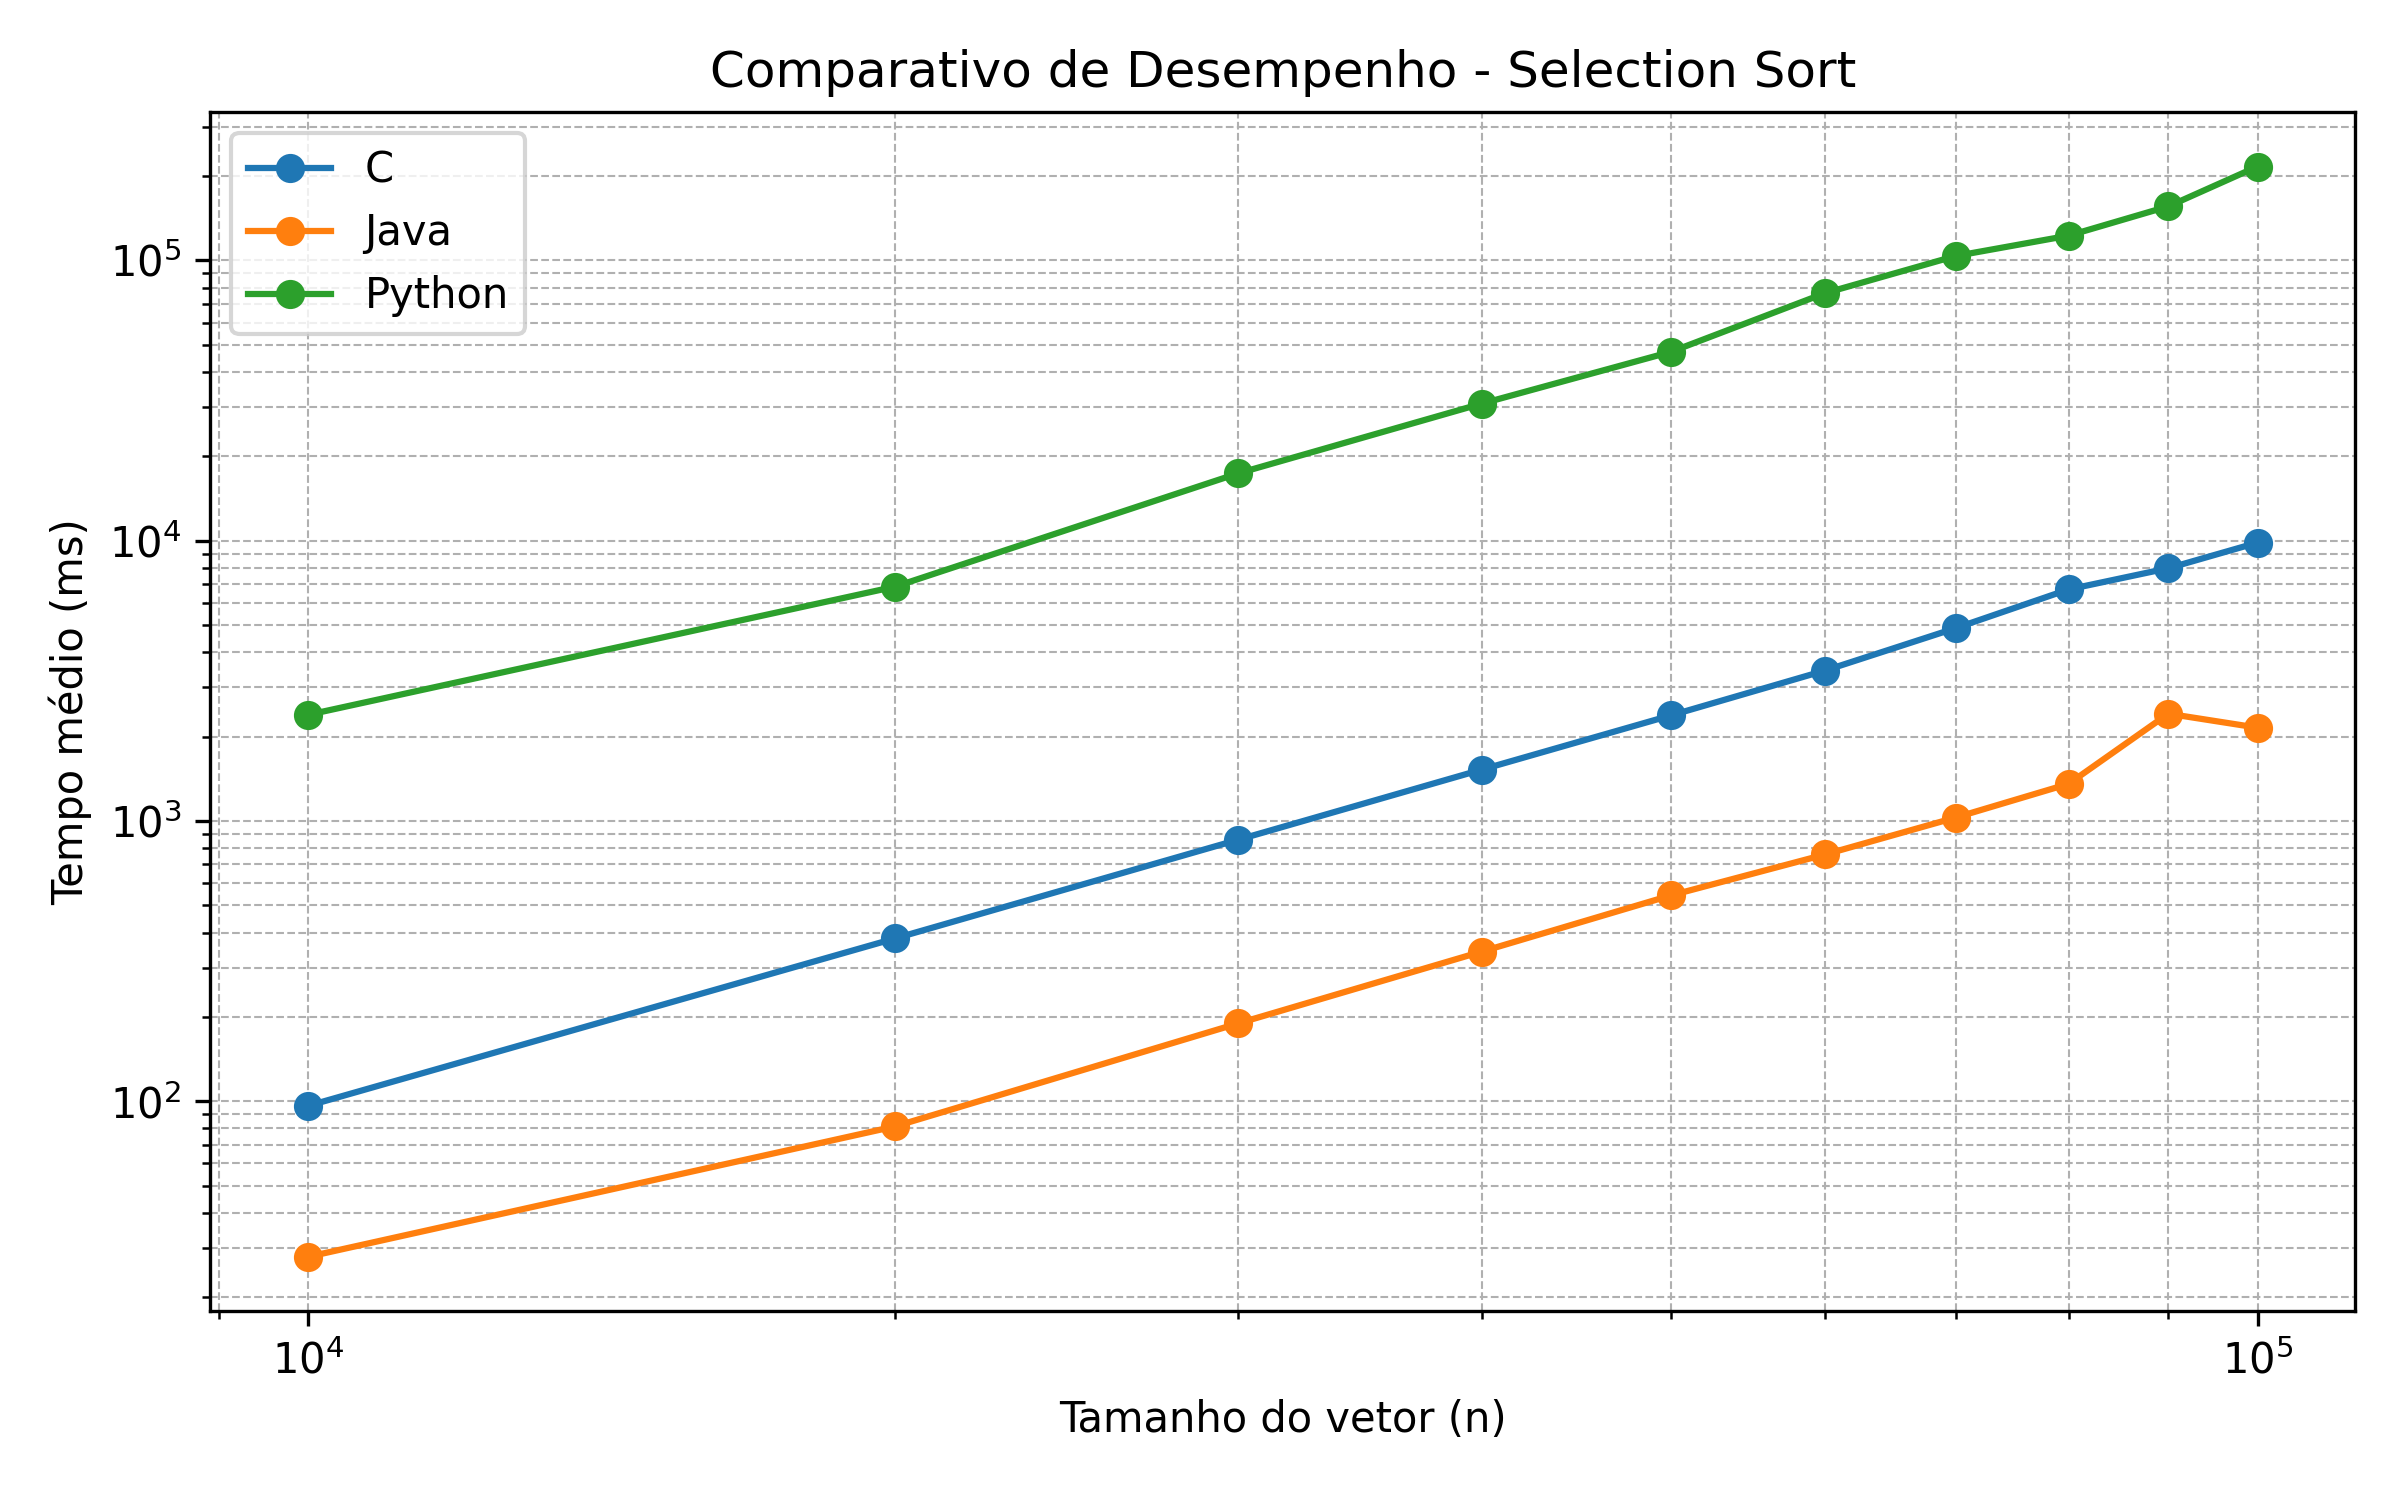
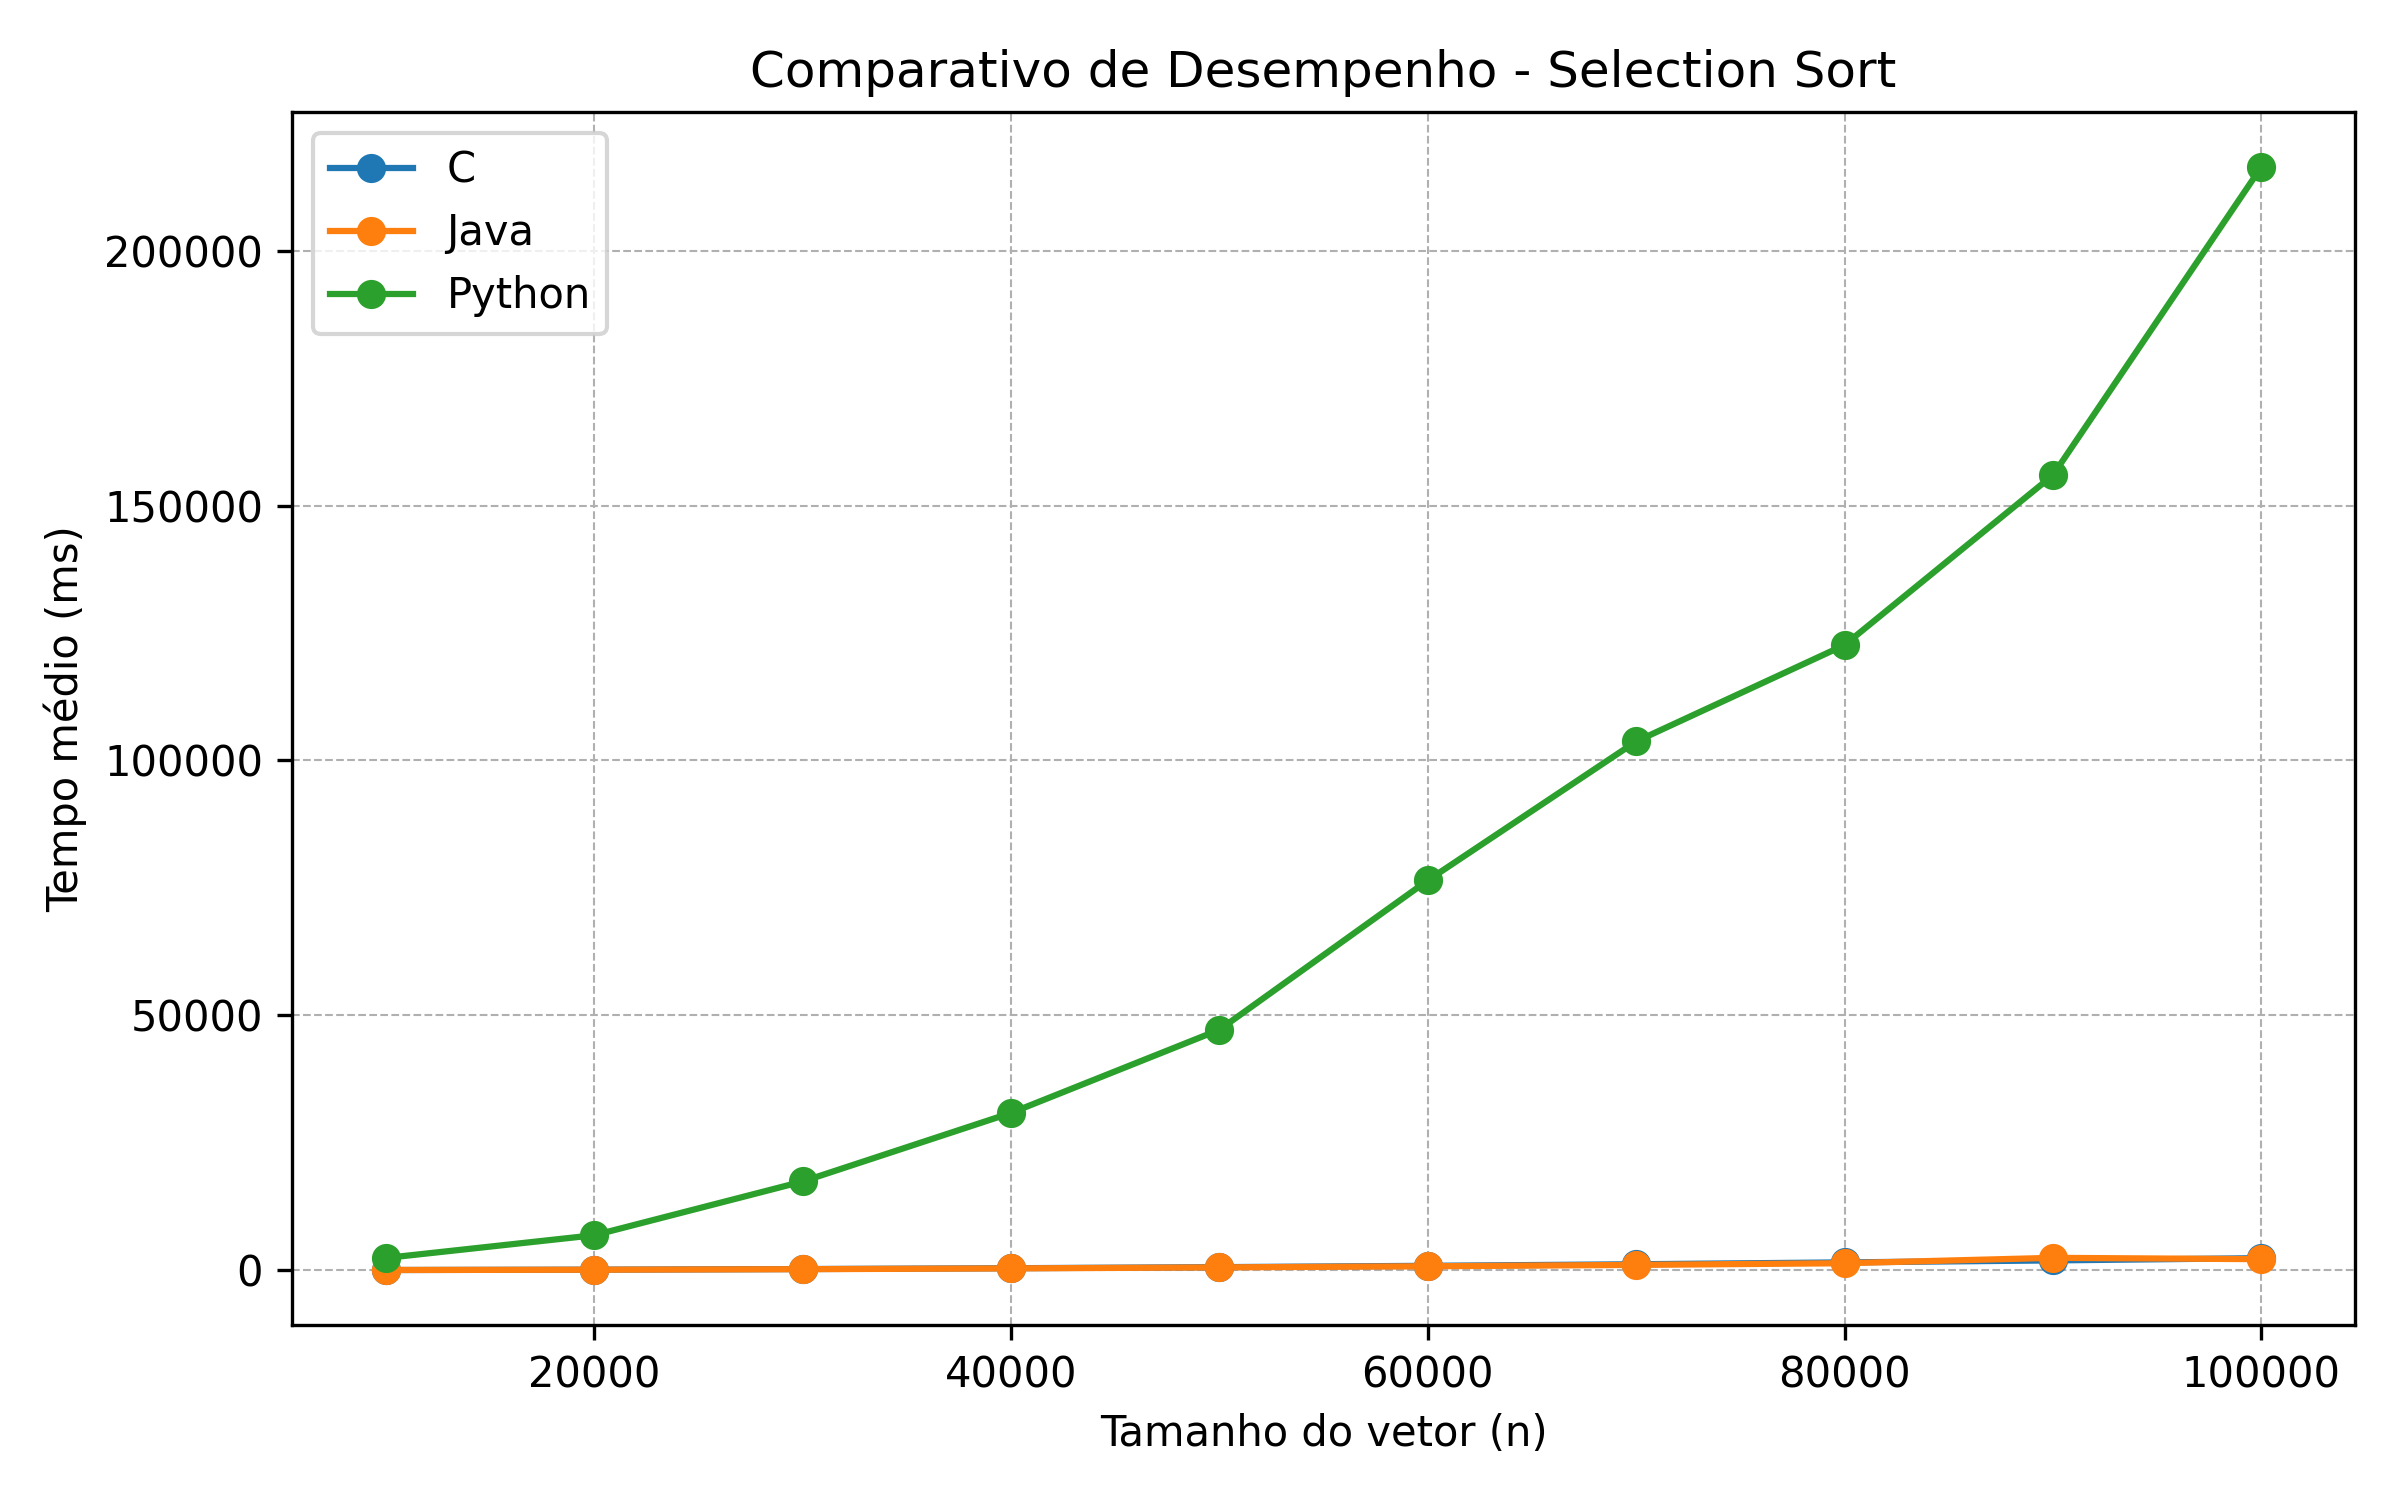
Refactor code and update performance data; modify output messages for clarity

diff --git a/codigo/python/gerar_graficos.py b/codigo/python/gerar_graficos.py
@@ -23,8 +23,8 @@ def gerar_grafico(df, titulo, arquivo_saida):
     """Gera gráfico log-log de desempenho para uma linguagem."""
     plt.figure(figsize=(8, 5))
     plt.plot(df["n"], df["tempo_ms"], marker='o', linestyle='-', color='steelblue')
-    plt.xscale("log")
-    plt.yscale("log")
+    # plt.xscale("log")
+    # plt.yscale("log")
     plt.title(titulo)
     plt.xlabel("Tamanho do vetor (n)")
     plt.ylabel("Tempo médio (ms)")
@@ -39,8 +39,8 @@ def gerar_comparativo(dados):
     plt.figure(figsize=(8, 5))
     for nome, df in dados.items():
         plt.plot(df["n"], df["tempo_ms"], marker='o', linestyle='-', label=nome)
-    plt.xscale("log")
-    plt.yscale("log")
+    # plt.xscale("quadratic")
+    # plt.yscale("quadratic")
     plt.title("Comparativo de Desempenho - Selection Sort")
     plt.xlabel("Tamanho do vetor (n)")
     plt.ylabel("Tempo médio (ms)")

diff --git a/codigo/python/gerador.py b/codigo/python/gerador.py
@@ -4,14 +4,6 @@ import csv
 from pathlib import Path
 
 def gerar_dados():
-    """
-    Gera arquivos CSV com vetores de inteiros para teste do Selection Sort
-    
-    - Tamanhos: 10.000 até 100.000 (incremento de 10.000)
-    - 50 execuções por tamanho
-    - Seeds únicas para cada execução
-    """
-    # Diretório base sempre dentro do projeto, ao lado da pasta 'codigo'
     base_dir = Path(__file__).resolve().parents[2] / "dados"
     base_dir.mkdir(parents=True, exist_ok=True)
     print(f"Saída base: {base_dir}")
